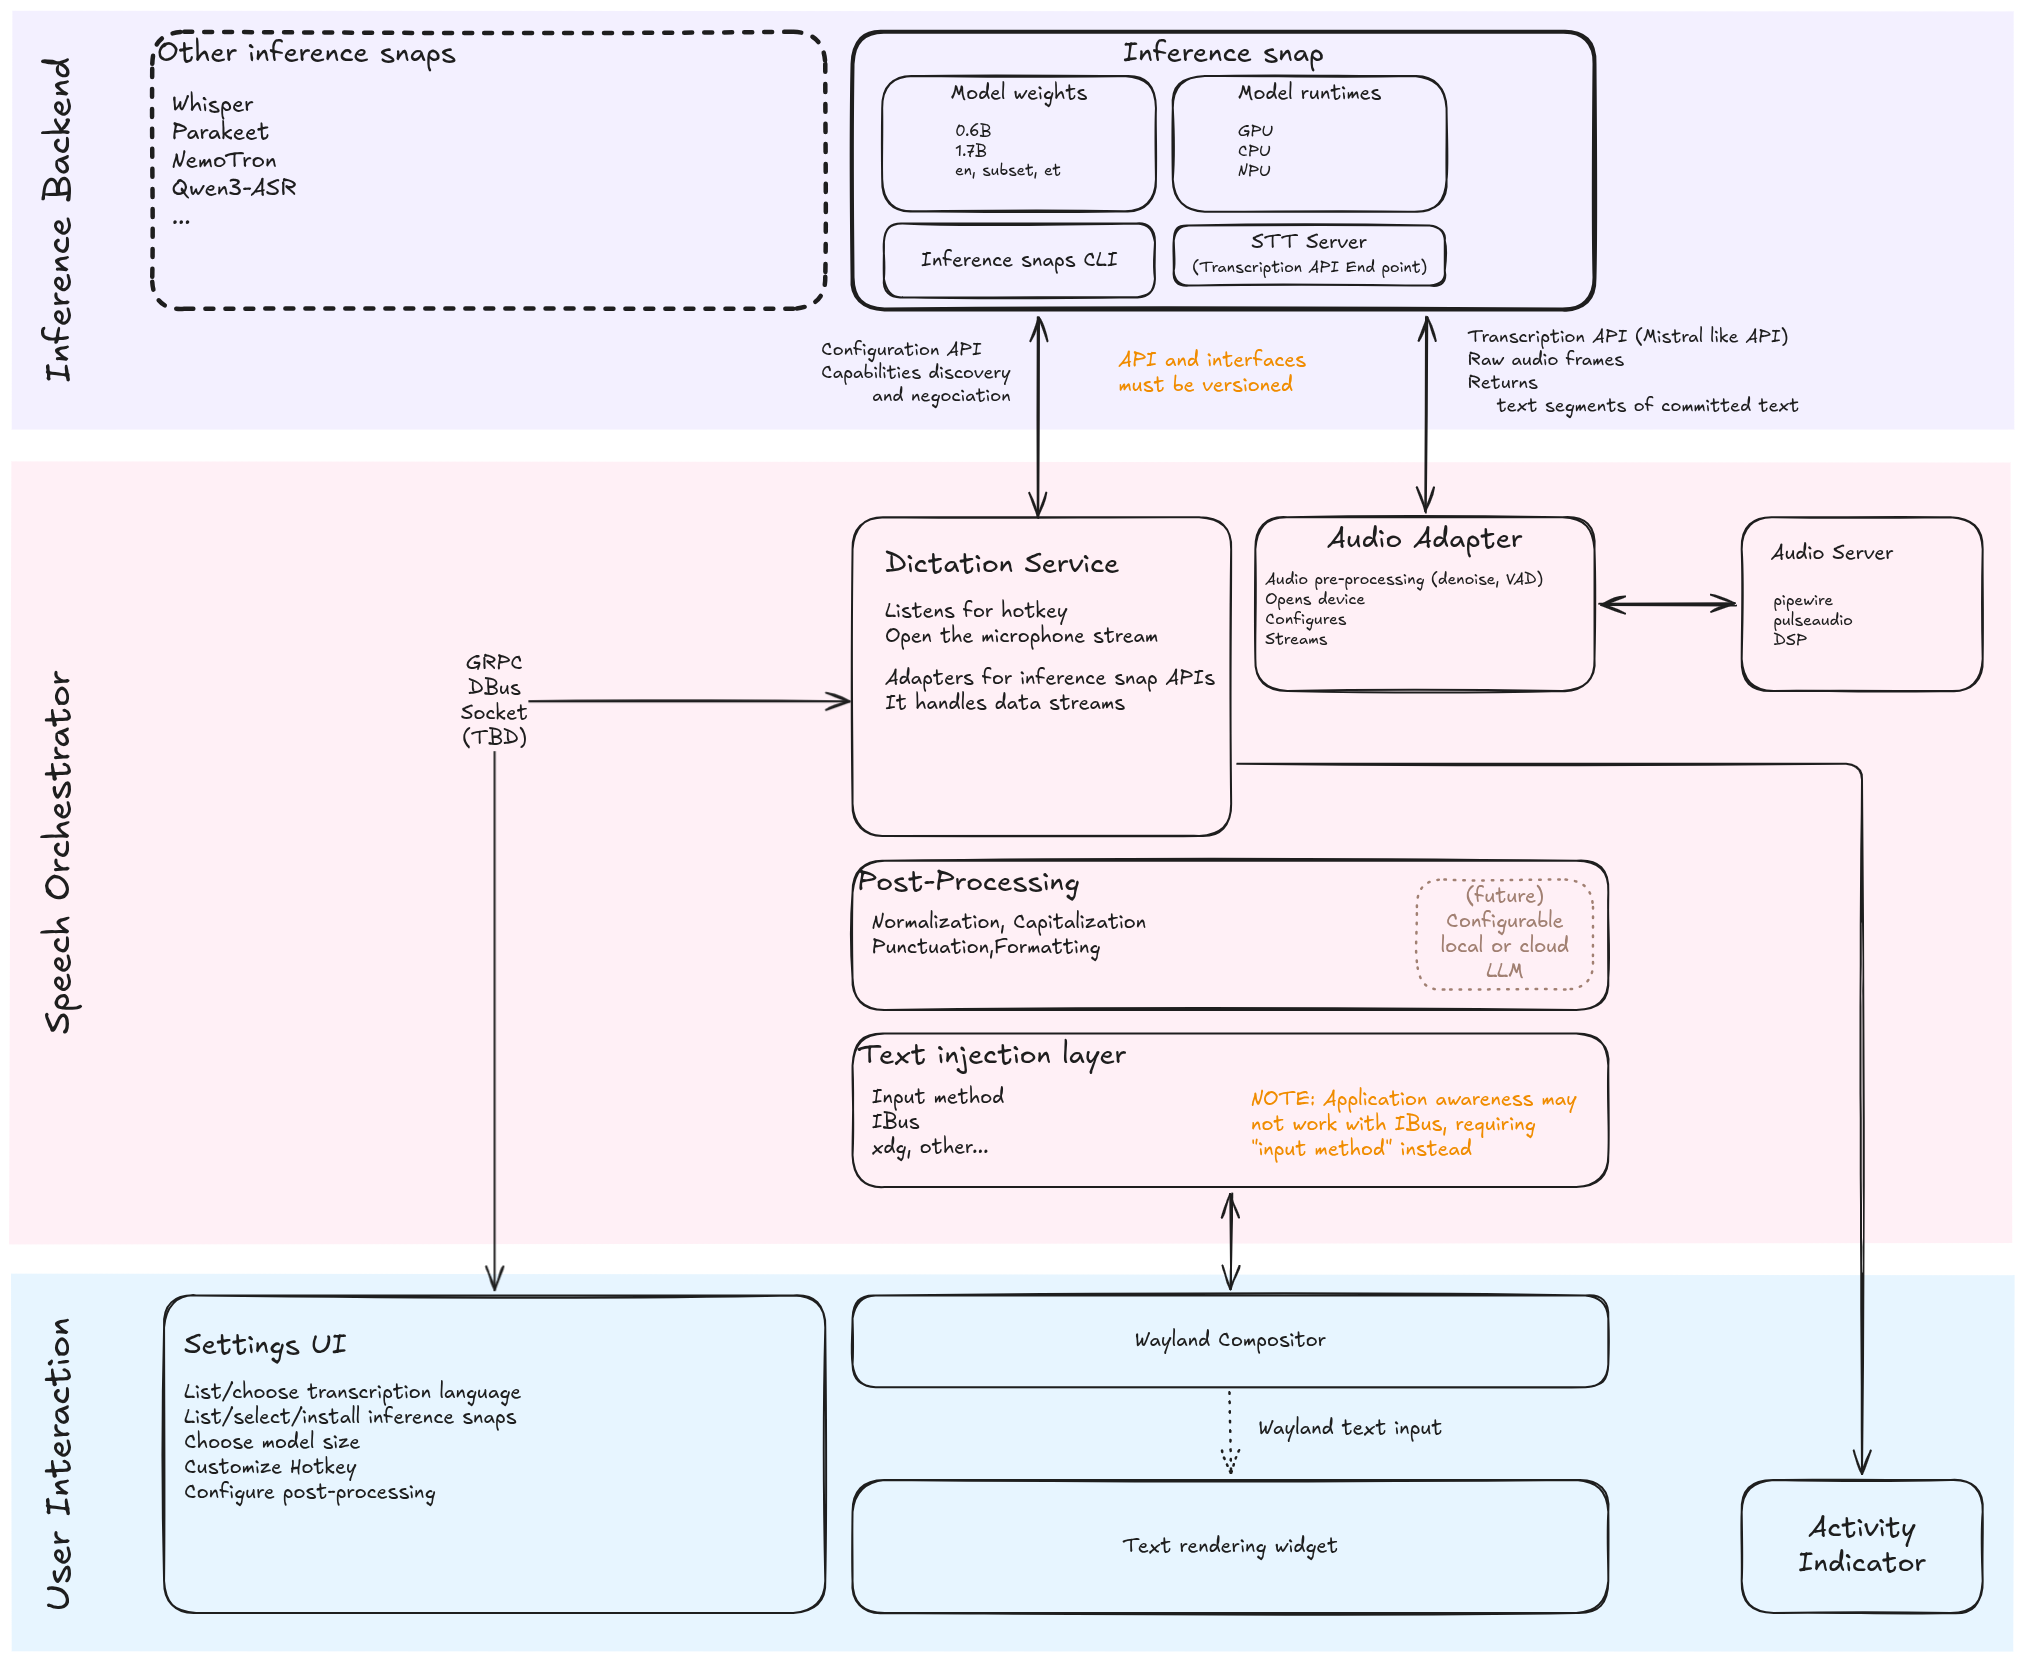
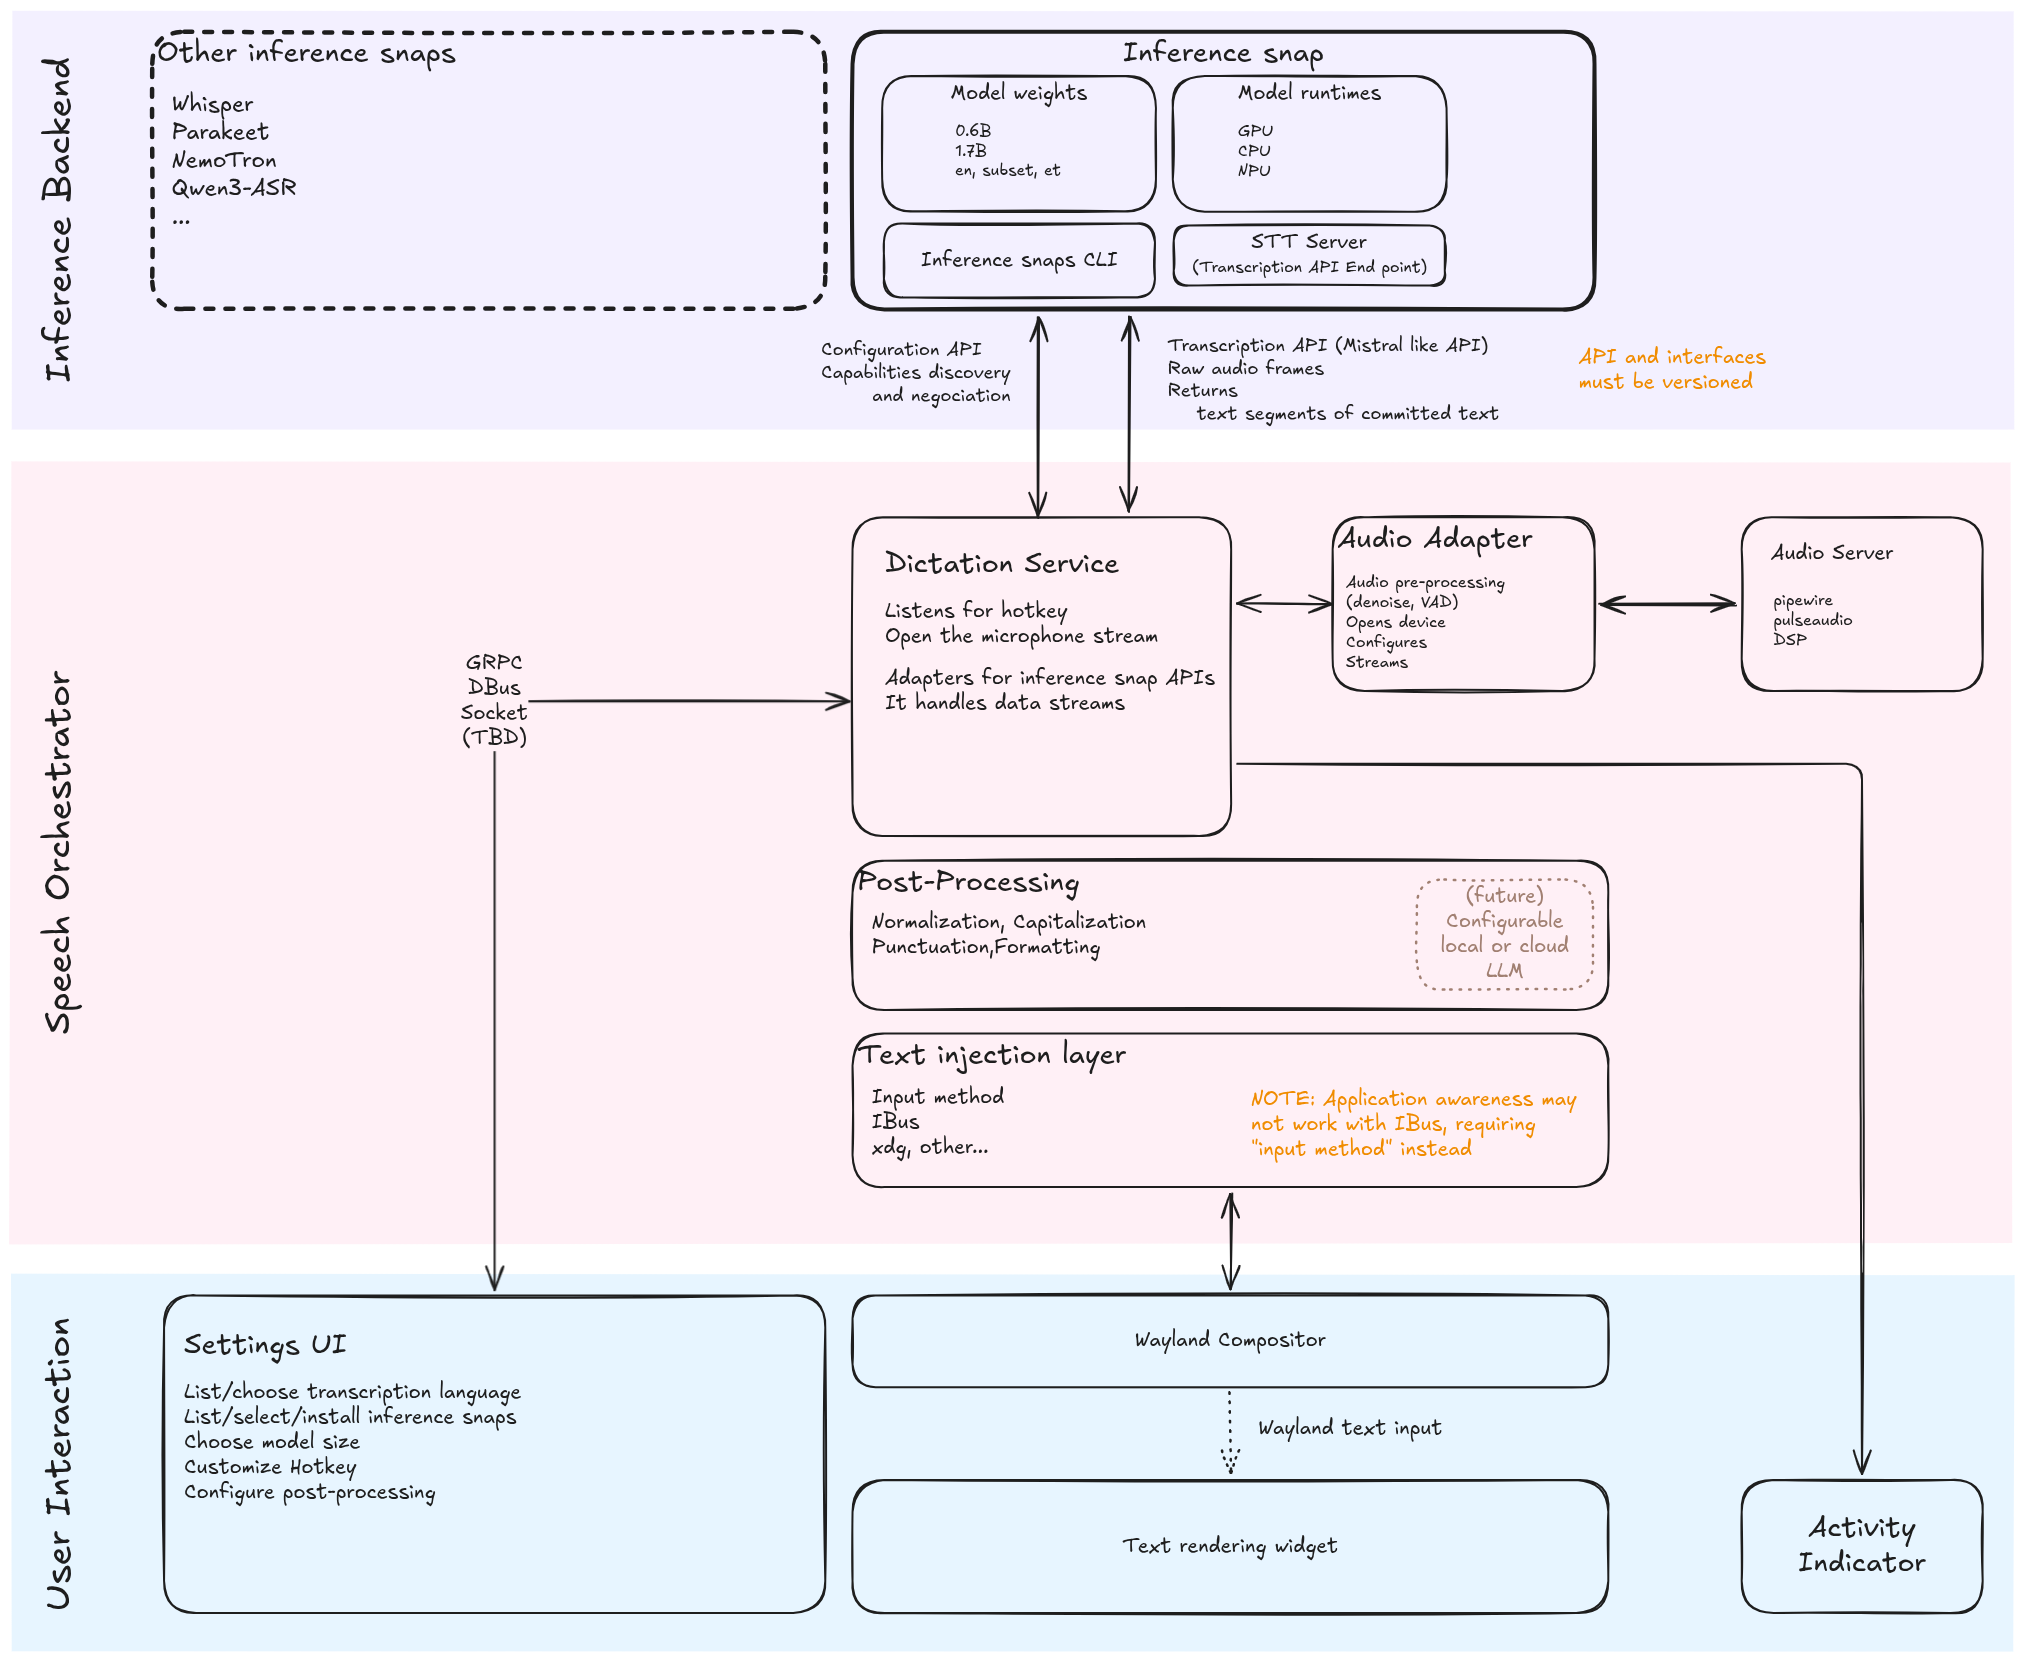
fix(myna): Fixed arrows in the diagram

Changed region(s): [[0.6228, 0.2455, 0.7474, 0.4296], [0.654, 0.1841, 0.872, 0.2455], [0.5606, 0.1841, 0.654, 0.2762]]

diff --git a/docs/architecture/UD129 - Ubuntu Desktop STT Integration.md b/docs/architecture/UD129 - Ubuntu Desktop STT Integration.md
@@ -245,9 +245,9 @@ It is responsible for:
 * Managing model lifecycle and resource allocation.  
 * Versioning APIs and model runtimes to ensure compatibility with clients.
 
-### Speech Orchestrator
+### Speech Controller
 
-The Speech Orchestrator owns the session lifecycle and coordinates all other components.
+The Speech Controller owns the session lifecycle and coordinates all other components.
 
 It is responsible for:
 
@@ -287,16 +287,6 @@ It handles:
 * Audio format negotiation.  
 * Stream management.  
 * Low-level audio capture.
-
-### State Management
-
-State Management maintains the session state, including:
-
-* Current session state.
-* Audio buffer state.  
-* Inference session state.  
-* Text input target state.  
-* Error state.
 
 ### Post-Processing
 
